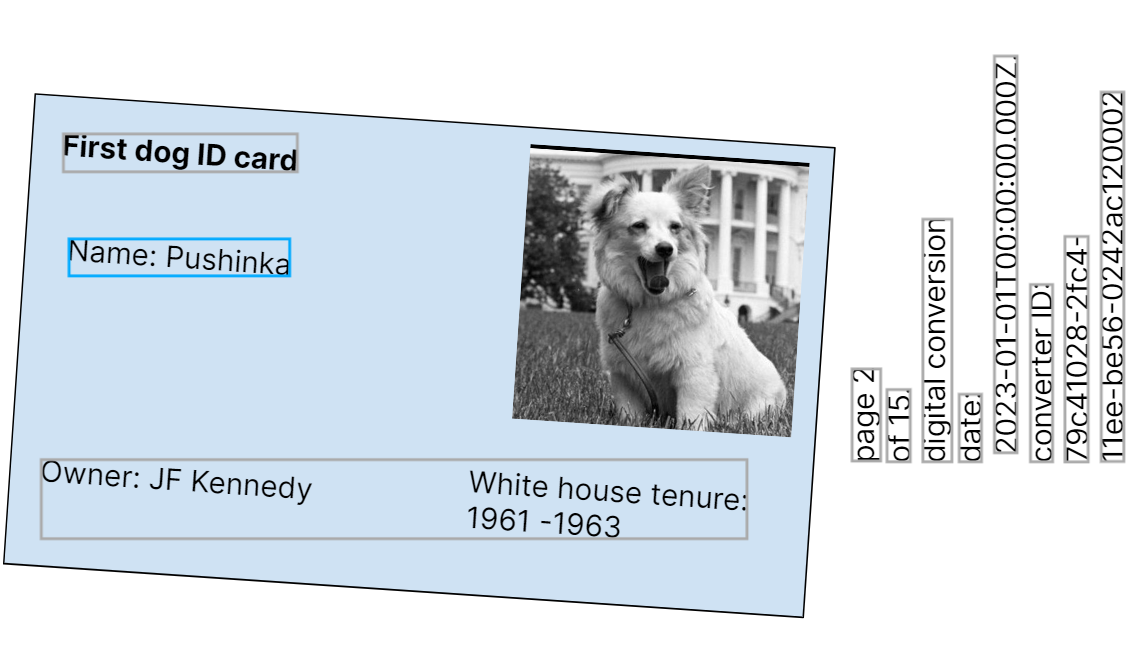
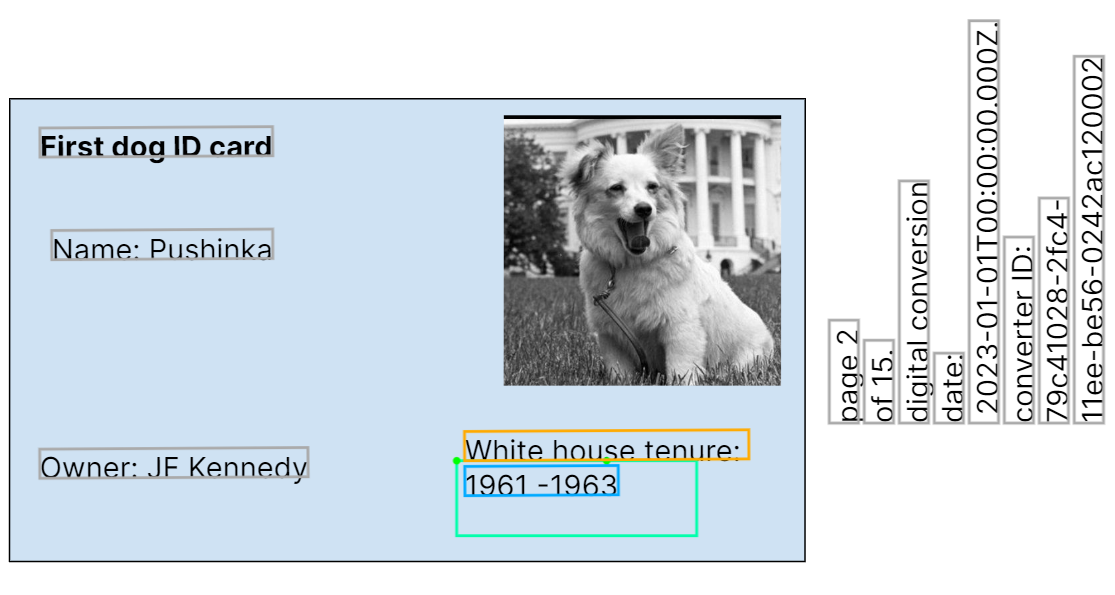
rotate

Changed region(s): [[0.0, 0.0303, 1.0, 0.9681]]

diff --git a/readme-sync/v0/senseml-reference/5000 - preprocessors/1420 - rotate-page.md b/readme-sync/v0/senseml-reference/5000 - preprocessors/1420 - rotate-page.md
@@ -7,29 +7,39 @@ hidden: true
 
 TODO:
 
-- update notes in Scale topic:
+- update notes in Scale topic and in Deskew topic:
 
 -   "you don't need a preprocessor in most cases...automatically....if it doesn't, configure the [Rotate Page](doc:rotate-page) preprocessor"
+
+- If pages are affected by scale, but are otherwise untransformed, use the Scale preprocessor as an easier-to-configure and more robust alternative to the Deskew preprocessor.
+
+- 
 
   
 
 
 
-Rotates page so that a matched anchor becomes horizontal. Use this when Sensible's default rotation handling behavior fails to rotate a page. For example, if a scanned ID card is vertically oriented, and the scanner adds automatically generated text in a horizontal orientation, Sensible can fail to rotate the page.  If the page is both rotated and skewed, use the Deskew preprocessor.
+Rotates page so that a matched anchor becomes horizontal. Use this when Sensible's default rotation handling behavior fails to rotate a page. For example, if a scanned ID card is vertically oriented, and the scanner adds automatically generated text in a horizontal orientation, Sensible can fail to rotate the page without this preprocessor.  If the page is both rotated and skewed, or if the page rotation isn't a multiple of 90 degrees, use the Deskew preprocessor.
+
+
+
+See the Notes section for when *not* to use this preprocessor and for alternatives.
+
+
 
 Parameters
 ====
 
-| key                 | value                                  | description                                                  |
-| ------------------- | -------------------------------------- | ------------------------------------------------------------ |
-| type (**required**) | `rotatePage`                           | Rotates page by up to 90 degrees. TODO more,, what if it's not quite at 90? |
-| match               | Match object or array of Match objects | See [Match object](doc:match)                                |
-| matchAll            | boolean                                | If true, rotates all pages containing the line specified by the Match parameter. |
+| key                 | value                                               | description                                                  |
+| ------------------- | --------------------------------------------------- | ------------------------------------------------------------ |
+| type (**required**) | `rotatePage`                                        |                                                              |
+| match               | [Match object](doc:match) or array of Match objects | Sensible rotates the page to make that text that matches this parameter horizontal.  Sensible rotates the page in 90 degrees multiples. |
+| matchAll            | boolean                                             | If true, rotates all pages containing the line specified by the Match parameter. |
 
 Examples
 ====
 
-The following image shows that without the Rotate page preprocessor, extraction from a rotated PDF fails. The Label method returns null, because the targeted text  isn't in the expected position (`right` ):
+The following image shows that without the Rotate page preprocessor, extraction from a rotated PDF fails. The Label method returns null, because the targeted text  isn't in the expected region:
 
 ![Click to enlarge](https://raw.githubusercontent.com/sensible-hq/sensible-docs/main/readme-sync/assets/v0/images/final/rotate_page_1.png)
 
@@ -41,20 +51,26 @@ To solve this problem, define a text match that you want to be horizonal, and Se
 {
   "preprocessors": [
     {
-      /* preprocessor necessary here
-      because there are many lines of vertical text 
-      with fewer vertical lines, Sensible would rotate automatically */
       "type": "rotatePage",
       "match": "first dog ID card"
     }
   ],
   "fields": [
     {
-      "id": "pet_name",
-      "anchor": "name:",
+      "id": "tenure",
+      "anchor": {
+        "match": {
+          "type": "endsWith",
+          "text": "tenure:"
+        }
+      },
       "method": {
-        "id": "label",
-        "position": "right"
+        "id": "region",
+        "start": "below",
+        "width": 1.6,
+        "height": 0.5,
+        "offsetX": -1,
+        "offsetY": 0
       }
     }
   ]
@@ -74,9 +90,9 @@ The following images show the example PDF used with this example config:
 
 ```json
 {
-  "pet_name": {
+  "tenure": {
     "type": "string",
-    "value": "Pushinka"
+    "value": "1961 -1963"
   }
 }
 ```
@@ -86,4 +102,6 @@ Notes
 
 **Alternatives to Rotate Page preprocessor**
 
+- If a document contains pages that are rotated but otherwise untransformed, you don't need a preprocessor. Sensible's default OCR engine (Microsoft) corrects rotation automatically. If the rotated pages contain a mix of vertical and horizonal text, it can cause automatic rotation to fail. in that case use the Rotate Page preprocessor. 
 - If pages are affected by translation, shear, or other [affine transformations](https://homepages.inf.ed.ac.uk/rbf/HIPR2/affine.htm) in addition to or instead of rotation and scale, use the [Deskew preprocessor](https://docs.sensible.so/docs/deskew).
+- If pages are affected by scale, but are otherwise untransformed, use the Scale preprocessor as an easier-to-configure and more robust alternative to the Deskew preprocessor.
